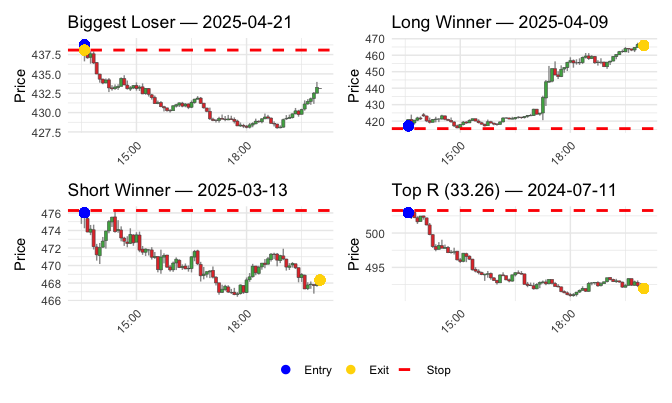
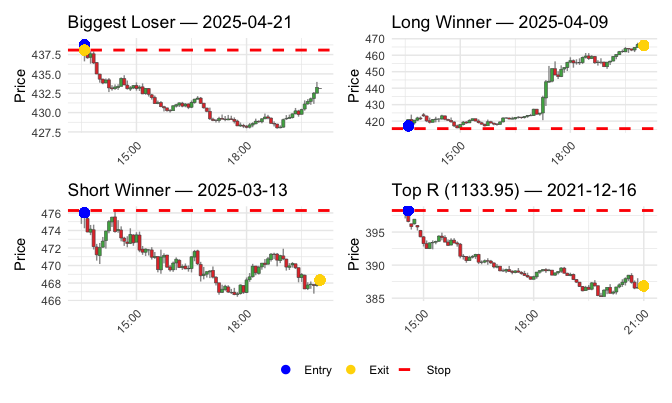
Add files via upload

diff --git a/Investment_2025/ORB_attempt1.md b/Investment_2025/ORB_attempt1.md
@@ -25,9 +25,9 @@ The time span goes from 2020-10-09 to 2025-05-21.
 
 ## Returns on the NASDAQ ETF is taken as a benchmark for the strategy performance evaluation
 
-![](ORB_attempt1_last_year.markdown_strict_files/figure-markdown_strict/unnamed-chunk-4-1.png)
+![](ORB_attempt1.markdown_strict_files/figure-markdown_strict/unnamed-chunk-4-1.png)
 
-![](ORB_attempt1_last_year.markdown_strict_files/figure-markdown_strict/unnamed-chunk-4-2.png)
+![](ORB_attempt1.markdown_strict_files/figure-markdown_strict/unnamed-chunk-4-2.png)
 
 ## Applying the Strategy
 
@@ -75,25 +75,25 @@ the paper):
     # A tibble: 17 × 2
        Metric                    Value      
        <chr>                     <chr>      
-     1 Total Return (%)          392.1068   
-     2 Annualized Return (%)     26.9134    
-     3 Annualized Volatility (%) 45.8650    
-     4 Annualized Sharpe Ratio   0.7544     
-     5 Max Drawdown (%)          -32.5207   
-     6 CAPM Alpha (%)            36.6945    
-     7 Beta                      0.1222     
+     1 Total Return (%)          392.7324   
+     2 Annualized Return (%)     26.9375    
+     3 Annualized Volatility (%) 45.8635    
+     4 Annualized Sharpe Ratio   0.7552     
+     5 Max Drawdown (%)          -32.5737   
+     6 CAPM Alpha (%)            36.7314    
+     7 Beta                      0.1220     
      8 Total Trades              1151.0000  
-     9 Winning Trades            273.0000   
-    10 Losing Trades             878.0000   
+     9 Winning Trades            275.0000   
+    10 Losing Trades             876.0000   
     11 Breakeven Trades          0.0000     
-    12 Win Rate (%)              23.7185    
-    13 Avg Net PnL               253.7853   
-    14 Profit Factor             1.1636     
-    15 Total Commission Paid     2848.0800  
-    16 Avg Position Notional     965967.7259
-    17 Avg Leverage Used         4.9014     
+    12 Win Rate (%)              23.8923    
+    13 Avg Net PnL               254.3288   
+    14 Profit Factor             1.1631     
+    15 Total Commission Paid     2860.1720  
+    16 Avg Position Notional     970034.9654
+    17 Avg Leverage Used         4.9015     
 
-![](ORB_attempt1_last_year.markdown_strict_files/figure-markdown_strict/unnamed-chunk-8-1.png)
+![](ORB_attempt1.markdown_strict_files/figure-markdown_strict/unnamed-chunk-8-1.png)
 
 Although the strategy produced mostly alpha returns, which is a key
 feature of successful trading strategies, the Sharp-ratio remained lower
@@ -101,13 +101,13 @@ than the stats of the paper (4.5% risk free was assumed).
 
 <figure>
 <img
-src="ORB_attempt1_last_year.markdown_strict_files/figure-markdown_strict/unnamed-chunk-9-1.png"
+src="ORB_attempt1.markdown_strict_files/figure-markdown_strict/unnamed-chunk-9-1.png"
 alt="Rolling Sharpe Ratio and Net Monthly PnL" />
 <figcaption aria-hidden="true">Rolling Sharpe Ratio and Net Monthly
 PnL</figcaption>
 </figure>
 
-![](ORB_attempt1_last_year.markdown_strict_files/figure-markdown_strict/unnamed-chunk-12-1.png)
+![](ORB_attempt1.markdown_strict_files/figure-markdown_strict/unnamed-chunk-12-1.png)
 
 The histogram chart shows the mean and the distribution of **winning**
 returns (in terms of R) on the trades over time.
@@ -121,7 +121,7 @@ taken.
 
 <figure>
 <img
-src="ORB_attempt1_last_year.markdown_strict_files/figure-markdown_strict/unnamed-chunk-13-1.png"
+src="ORB_attempt1.markdown_strict_files/figure-markdown_strict/unnamed-chunk-13-1.png"
 alt="Example Trades (2 × 2) with Unified Legend" />
 <figcaption aria-hidden="true">Example Trades (2 × 2) with Unified
 Legend</figcaption>
@@ -136,7 +136,7 @@ They might be smaller or larger, but all in all, slippage and spread are
 the two main factors that can affect the profitablity of trades in real
 life.
 
-![](ORB_attempt1_last_year.markdown_strict_files/figure-markdown_strict/unnamed-chunk-14-1.png)
+![](ORB_attempt1.markdown_strict_files/figure-markdown_strict/unnamed-chunk-14-1.png)
 
 ## Conclusion
 
